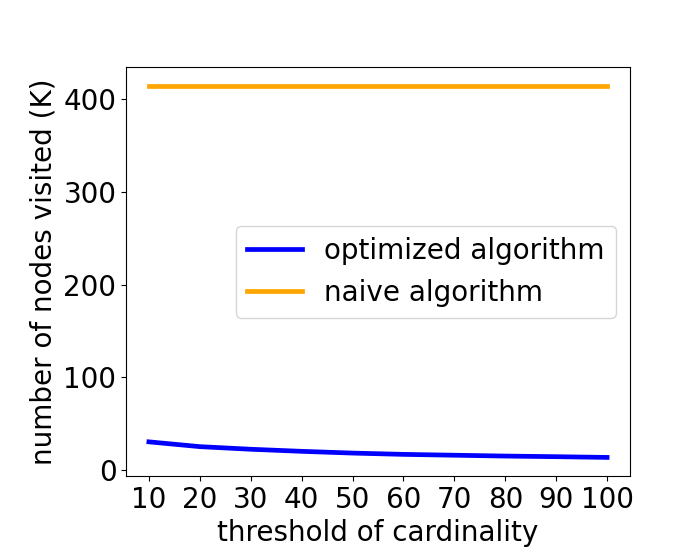
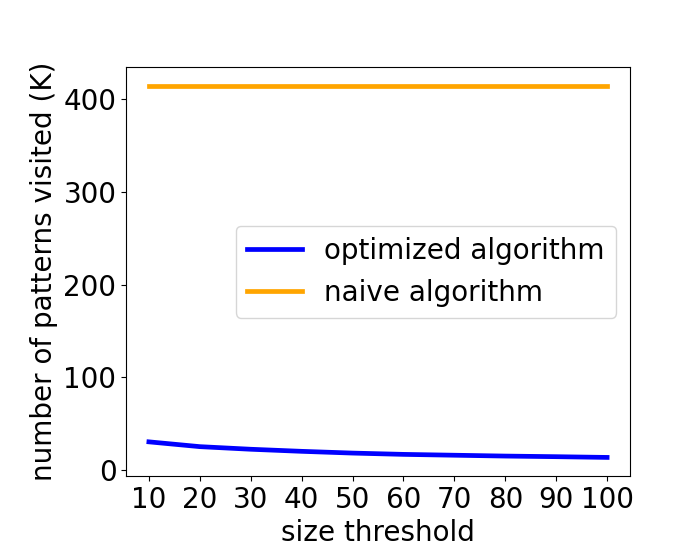
low acc, creditcard, thc

Changed region(s): [[0.03, 0.1214, 0.09, 0.85], [0.3, 0.9107, 0.78, 0.9714]]

diff --git a/Coding/Experiments/AccuracyFairness/CreditcardData/Thc_0_20210201.py b/Coding/Experiments/AccuracyFairness/CreditcardData/Thc_0_20210201.py
@@ -148,7 +148,7 @@ for n in range(len(Thc_list)):
 plt.plot(Thc_list, execution_time1, label="optimized algorithm", color='blue', linewidth = 3.4)
 plt.plot(Thc_list, execution_time2, label="naive algorithm", color='orange', linewidth = 3.4)
 
-plt.xlabel('threshold of cardinality')
+plt.xlabel('size threshold')
 plt.ylabel('execution time (s)')
 plt.xticks(Thc_list)
 
@@ -161,8 +161,8 @@ plt.show()
 fig, ax = plt.subplots()
 plt.plot(Thc_list, num_calculation1, label="optimized algorithm", color='blue', linewidth = 3.4)
 plt.plot(Thc_list, num_calculation2, label="naive algorithm", color='orange', linewidth = 3.4)
-plt.xlabel('threshold of cardinality')
-plt.ylabel('number of nodes visited (K)')
+plt.xlabel('size threshold')
+plt.ylabel('number of patterns visited (K)')
 ax.yaxis.set_major_formatter(FuncFormatter(thousands_formatter))
 
 

diff --git a/Coding/Experiments/AccuracyFairness/CreditcardData/Thc_1_20210629.py b/Coding/Experiments/AccuracyFairness/CreditcardData/Thc_1_20210629.py
@@ -155,7 +155,7 @@ for n in range(len(Thc_list)):
 plt.plot(Thc_list, execution_time1, label="optimized algorithm", color='blue', linewidth = 3.4)
 plt.plot(Thc_list, execution_time2, label="naive algorithm", color='orange', linewidth = 3.4)
 
-plt.xlabel('threshold of cardinality')
+plt.xlabel('size threshold')
 plt.ylabel('execution time (s)')
 plt.xticks(Thc_list)
 
@@ -168,8 +168,8 @@ plt.show()
 fig, ax = plt.subplots()
 plt.plot(Thc_list, num_calculation1, label="optimized algorithm", color='blue', linewidth = 3.4)
 plt.plot(Thc_list, num_calculation2, label="naive algorithm", color='orange', linewidth = 3.4)
-plt.xlabel('threshold of cardinality')
-plt.ylabel('number of nodes visited (K)')
+plt.xlabel('size threshold')
+plt.ylabel('number of patterns visited (K)')
 ax.yaxis.set_major_formatter(FuncFormatter(thousands_formatter))
 
 
